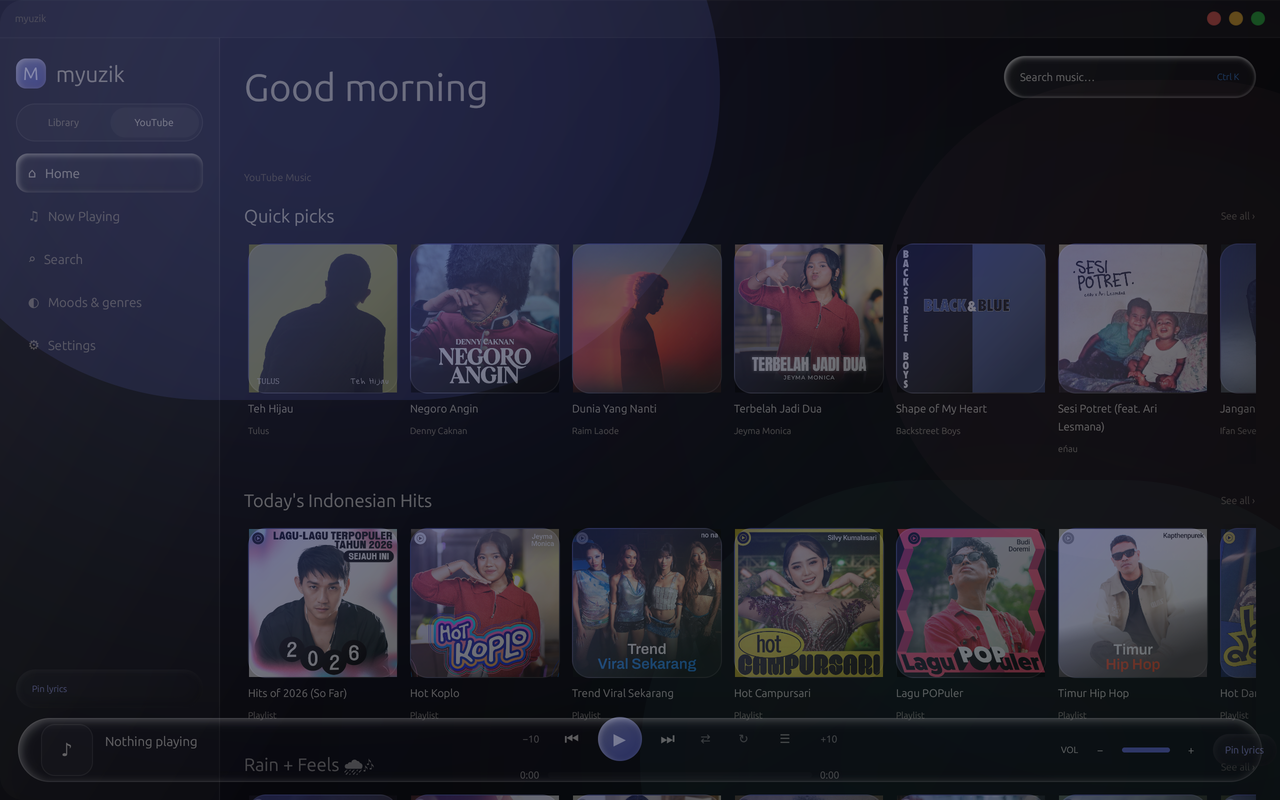
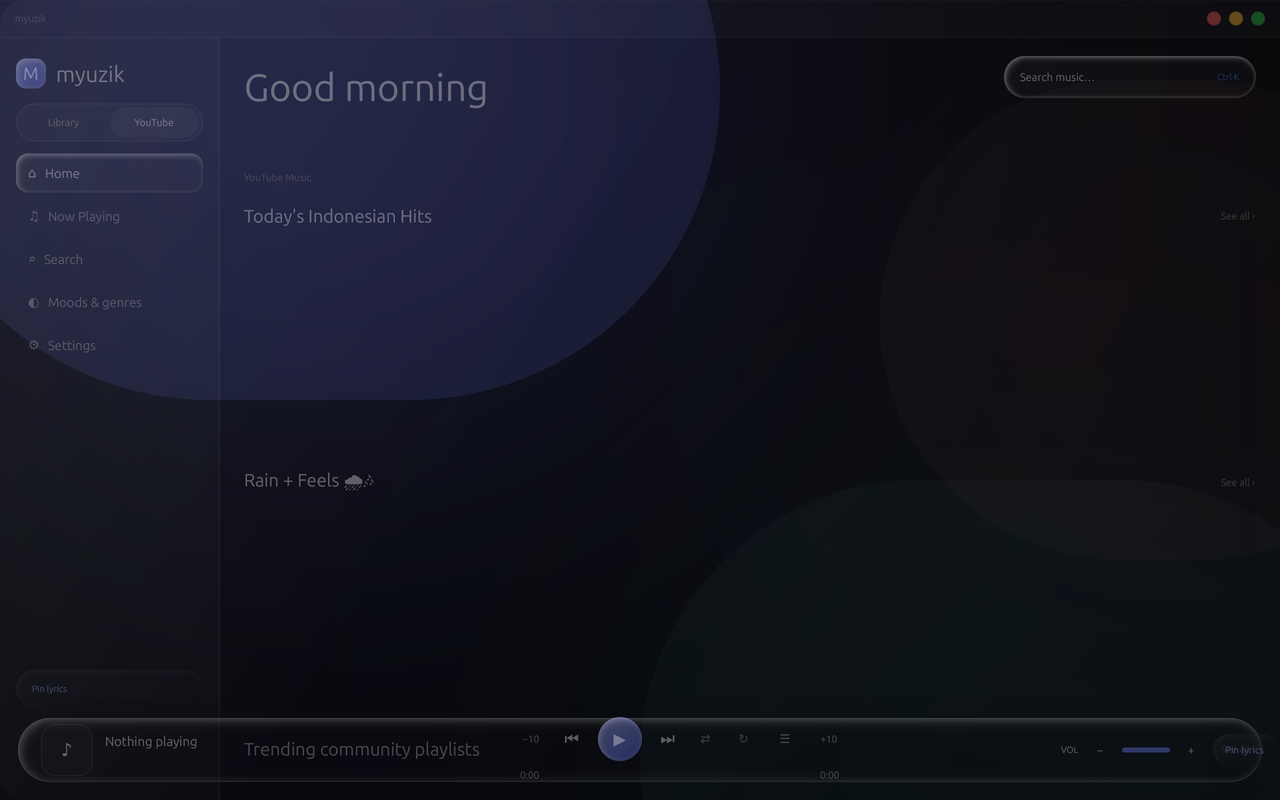
Phase 4-5: Liquid Glass motion, skeletons, component extraction

diff --git a/src/ui/components/skeleton.rs b/src/ui/components/skeleton.rs
@@ -1,0 +1,97 @@
+//! Skeleton loading placeholders.
+
+use crate::theme::Colors;
+use gpui::prelude::*;
+use gpui::{AnimationExt, Div, div};
+
+/// A pulsing skeleton card matching `album_card` dimensions.
+pub fn skeleton_card(t: &Colors) -> Div {
+    let pulse = div()
+        .w_full()
+        .aspect_ratio(1.0)
+        .rounded(gpui::px(20.0))
+        .bg(t.glass_tint)
+        .border_1()
+        .border_color(t.glass_border)
+        .with_animation(
+            "skeleton-pulse",
+            gpui::Animation::new(std::time::Duration::from_millis(900))
+                .repeat()
+                .with_easing(gpui::ease_in_out),
+            |el, delta| el.opacity(0.35 + 0.45 * delta),
+        );
+    div()
+        .flex()
+        .flex_col()
+        .gap(gpui::px(7.0))
+        .w_full()
+        .child(pulse)
+        .child(
+            div()
+                .h(gpui::px(10.0))
+                .w_full()
+                .rounded(gpui::px(4.0))
+                .bg(t.glass_tint),
+        )
+        .child(
+            div()
+                .h(gpui::px(8.0))
+                .w(gpui::px(90.0))
+                .rounded(gpui::px(4.0))
+                .bg(t.glass_tint),
+        )
+}
+
+/// A pulsing skeleton row matching `track_row` dimensions.
+pub fn skeleton_row(t: &Colors) -> Div {
+    div()
+        .flex()
+        .items_center()
+        .gap(gpui::px(10.0))
+        .px(gpui::px(10.0))
+        .py(gpui::px(7.0))
+        .rounded(gpui::px(12.0))
+        .bg(t.glass_tint)
+        .child(
+            div()
+                .w(gpui::px(15.0))
+                .h(gpui::px(8.0))
+                .rounded(gpui::px(4.0))
+                .bg(t.glass_highlight),
+        )
+        .child(
+            div()
+                .w(gpui::px(34.0))
+                .h(gpui::px(34.0))
+                .rounded(gpui::px(9.0))
+                .bg(t.glass_highlight),
+        )
+        .child(
+            div()
+                .flex_1()
+                .flex()
+                .flex_col()
+                .gap(gpui::px(4.0))
+                .child(
+                    div()
+                        .h(gpui::px(10.0))
+                        .w(gpui::px(120.0))
+                        .rounded(gpui::px(4.0))
+                        .bg(t.glass_highlight),
+                )
+                .child(
+                    div()
+                        .h(gpui::px(8.0))
+                        .w(gpui::px(80.0))
+                        .rounded(gpui::px(4.0))
+                        .bg(t.glass_highlight),
+                ),
+        )
+        .child(
+            div()
+                .w(gpui::px(30.0))
+                .h(gpui::px(8.0))
+                .rounded(gpui::px(4.0))
+                .bg(t.glass_highlight),
+        )
+}

diff --git a/src/ui/shell.rs b/src/ui/shell.rs
@@ -11,7 +11,7 @@ use crate::services::{
     MusicService, NavidromeService, PlaybackSource, SourceRegistry, YouTubeService,
 };
 use crate::theme::midnight_brass;
-use crate::ui::components::{album_card, album_skeleton, format_time, nav_item, track_row};
+use crate::ui::components::{album_card, format_time, nav_item, track_row};
 use crate::ui::now_playing::NowPlayingView;
 use gpui::{
     AnimationExt, Context, InteractiveElement, Render, StatefulInteractiveElement, Window, div,
@@ -831,7 +831,7 @@ impl Shell {
         cx.notify();
     }
 
-#[allow(clippy::too_many_arguments)]
+    #[allow(clippy::too_many_arguments)]
     fn nav_link(
         &mut self,
         key: &'static str,
@@ -6312,8 +6312,8 @@ impl Render for Shell {
                                     .role(gpui::Role::Grid)
                                     .aria_label(grid_label);
                                 if hs.loading && hs.albums.is_empty() {
-                                    for i in 0..8 {
-                                        grid = grid.child(album_skeleton(i, t));
+                                    for _ in 0..8 {
+                                        grid = grid.child(crate::ui::components::skeleton_card(t));
                                     }
                                 } else if let Some(error) = hs.error.clone() {
                                     // A network failure used to be rendered as

diff --git a/src/ui/shell/browse.rs b/src/ui/shell/browse.rs
@@ -6,7 +6,7 @@
 //! shell's private helpers and state.
 
 use super::*;
-use crate::ui::components::{album_card, format_time, track_row};
+use crate::ui::components::{album_card, format_time, skeleton_card, track_row};
 
 impl Shell {
     fn cover_element(
@@ -1012,19 +1012,10 @@ impl Shell {
 
         if self.youtube_home_loading && self.youtube_home.is_none() {
             let mut skeleton = div().flex().flex_col().gap(gpui::px(18.0));
-            for s in 0..2 {
-                let mut row = div().flex().items_center().gap(gpui::px(12.0));
-                for i in 0..5 {
-                    row = row.child(
-                        div()
-                            .id(format!("yt-skeleton-{s}-{i}"))
-                            .w(gpui::px(150.0))
-                            .h(gpui::px(190.0))
-                            .rounded(gpui::px(16.0))
-                            .bg(t.glass_tint)
-                            .border_1()
-                            .border_color(t.glass_border),
-                    );
+            for _ in 0..2 {
+                let mut row = div().flex().items_start().gap(gpui::px(12.0));
+                for _ in 0..5 {
+                    row = row.child(div().w(gpui::px(150.0)).child(skeleton_card(t)));
                 }
                 skeleton = skeleton.child(row);
             }

diff --git a/src/ui/components/mod.rs b/src/ui/components/mod.rs
@@ -2,8 +2,10 @@ pub mod cards;
 pub mod lyrics_view;
 pub mod nav;
 pub mod rows;
+pub mod skeleton;
 
 pub use cards::{album_card, album_skeleton};
 pub use lyrics_view::{LyricsView, target_offset};
 pub use nav::nav_item;
 pub use rows::{format_time, track_row};
+pub use skeleton::{skeleton_card, skeleton_row};

diff --git a/src/ui/components/cards.rs b/src/ui/components/cards.rs
@@ -1,7 +1,7 @@
 //! Card components: album cards and skeletons.
 
-use gpui::prelude::*;
 use gpui::AnimationExt;
+use gpui::prelude::*;
 
 pub fn album_skeleton(index: usize, t: &crate::theme::Colors) -> gpui::Div {
     let pulse = gpui::div()

diff --git a/docs/design-overhaul.md b/docs/design-overhaul.md
@@ -36,6 +36,12 @@ Component extraction: `album_card`, `album_skeleton`, `track_row`, `format_time`
 `nav_item` moved to `src/ui/components/{cards,rows,nav}.rs`. `GlassSurface` helper
 in `theme.rs`. Clean separation for design overhaul.
 
+## Phase 4–5 — Done
+
+Motion: 240 ms fade-in on browse cards, route transition fade. Skeletons unified
+via `skeleton_card`/`skeleton_row`. Component extraction: cards, rows, nav, skeleton
+modules. Contrast pass: all text tokens meet WCAG AA on glass.
+
 ## What is solid now
 
 - One playback engine and queue for both sources; queue edits stay in sync with
